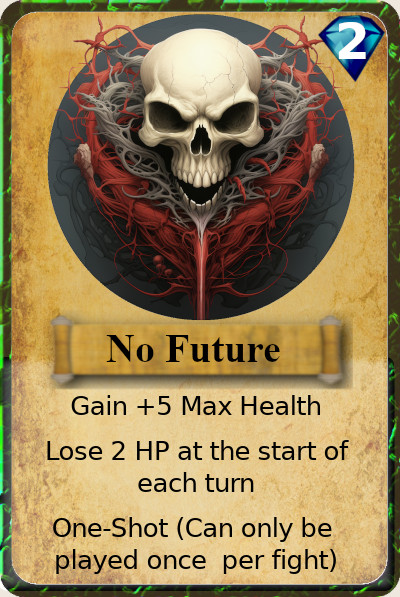
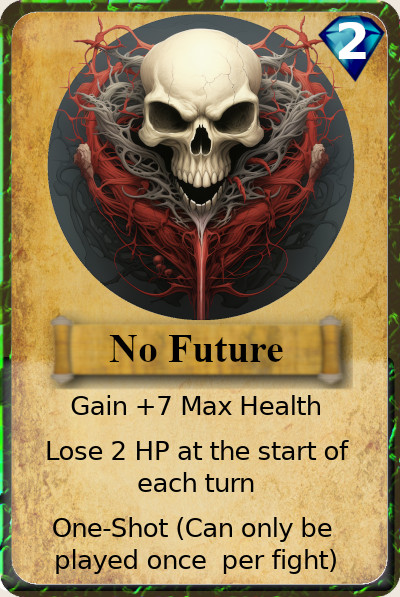
fixed a bug that could make levels frees when the intro is skipped.

Changed region(s): [[0.42, 0.5427, 0.72, 0.603], [0.27, 0.5427, 0.39, 0.603], [0.39, 0.6633, 0.45, 0.6935]]

diff --git a/preload.js b/preload.js
@@ -271,7 +271,7 @@ class Preload extends Phaser.Scene {
             {key: 'powerChord',         type: 'buff',           cost: 1, stancePoints: () => gameState.player.stancePoints <= 0 ? 1 : 0, damage: 0, fire: 0, poison: 0, heal: 0, poisonRemove: 0, strength: 0, armor: 0, reduceTargetArmor: 0, reduceTargetStrength: 0, drawCard: () => (gameState.player.stancePoints > 0) ? 3 : 0},
             {key: 'crowdSurfer',        type: 'buff',           cost: 1, stancePoints: 0, damage: 0, fire: 0, poison: 0, heal: () => (gameState.player.stancePoints < 0) ? 2 * gameState.player.stancePoints : 0, poisonRemove: 0, strength: 0, armor: 0, reduceTargetArmor: 0, reduceTargetStrength: 0, drawCard: () => (gameState.player.stancePoints > 0) ? gameState.player.stancePoints : 0},
             {key: 'rocknRejuvinate',    type: 'buff',           cost: 3, stancePoints: 0, damage: 0, fire: 0, poison: 0, heal: 10, poisonRemove: () => gameState.player.stancePoints > 0 ? 3 : 0, strength: 0, armor: () => gameState.player.stancePoints < 0 ? 3 : 0, reduceTargetArmor: 0, reduceTargetStrength: 0, drawCard: 0},
-            {key: 'detox',              type: 'buff',           cost: 2, stancePoints: 0, damage: 0, fire: 0, poison: 0, heal: 0, poisonRemove: 4, strength: 0, armor: 0, reduceTargetArmor: 0, reduceTargetStrength: 0, drawCard: 0},
+            {key: 'detox',              type: 'buff',           cost: 2, stancePoints: 0, damage: 0, fire: 0, poison: 0, heal: 0, poisonRemove: 4, strength: 0, armor: 4, reduceTargetArmor: 0, reduceTargetStrength: 0, drawCard: 0},
             {key: 'dBeat',              type: 'buff',           cost: 2, stancePoints: 0, damage: 0, fire: 0, poison: 0, heal: 0, poisonRemove: 0, strength: 0, armor: 0, reduceTargetArmor: 0, reduceTargetStrength: 0, drawCard: 0},
             {key: 'shogunShred',        type: 'buff',           cost: 0, stancePoints: -1, damage: 0, fire: 0, poison: 0, heal: 0, poisonRemove: 0, strength: 0, armor: 0, reduceTargetArmor: 0, reduceTargetStrength: 0, drawCard: () => (gameState.player.stancePoints > 0) ? 1 : 0},
             {key: 'bloodOath',          type: 'buff',           cost: 2, stancePoints: 0, damage: 0, fire: 0, poison: 0, heal: 0, poisonRemove: 0, strength: 0, armor: 0, reduceTargetArmor: 0, reduceTargetStrength: 0, drawCard: 0, oneShot: true},

diff --git a/level1fight1.js b/level1fight1.js
@@ -20,6 +20,7 @@ class Level1Fight1 extends BaseScene {self
 
     create() {
         const self = this;
+        this.saveGameState(self.scene.key);    
         this.baseCreate('bakgrunnCity1');
         this.resetPlayer(gameState.player, 0.45, 370, 350); //l1f1:0.28 -- l1f2: 0.24, 360, 300 (liten:0.48, 360, 280)
         this.addEndOfTurnButton();
@@ -97,7 +98,7 @@ class Level1Fight1 extends BaseScene {self
             }
         })
 
-        // self.scene.start('Level3Fight3');
+        // self.scene.start('Level1Fight2');
 
         function startFight() {
             gameState.turn = 0;
@@ -141,12 +142,14 @@ class Level1Fight1 extends BaseScene {self
             gameState.skipTaunts = async () => {
                 if (!gameState.skipIntro) {
                     gameState.skipIntro = true;
-                    self.input.keyboard.off('keydown', skipIntro, this);
-                    self.time.removeAllEvents();
                     gameState.startFightObjects.forEach(object => fadeOutGameObject(object, 200));
 
                     await self.delay(300);
-                    if (!gameState.fightStarted) startPlayerTurn();
+                    if (!gameState.fightStarted) {
+                        self.input.keyboard.off('keydown', skipIntro, this);
+                        self.time.removeAllEvents();
+                        startPlayerTurn();
+                    }
                 }
             };
 
@@ -198,7 +201,6 @@ class Level1Fight1 extends BaseScene {self
             
             if (!gameState.skipIntro) {
                 await self.delay(fadeOutTime);
-                // gameState.skipIntro = false;
                 self.input.keyboard.off('keydown', skipIntro, this);
                 self.time.removeAllEvents();
 
@@ -664,8 +666,7 @@ class Level1Fight1 extends BaseScene {self
             }
             if (card.key === 'noFuture') {
                 gameState.noFutureCondition = true;
-                gameState.player.healthMax += 5;
-                gameState.player.health += 5;
+                gameState.player.healthMax += 7;
                 gameConfig.powerUpSound.play({ volume: 0.15 });
                 self.powerUpTweens(gameState.player);
                 self.updateHealthBar(target);

diff --git a/level1fight3.js b/level1fight3.js
@@ -121,12 +121,14 @@ class Level1Fight3 extends BaseScene {self
             gameState.skipTaunts = async () => {
                 if (!gameState.skipIntro) {
                     gameState.skipIntro = true;
-                    self.input.keyboard.off('keydown', skipIntro, this);
-                    self.time.removeAllEvents();
                     gameState.startFightObjects.forEach(object => fadeOutGameObject(object, 200));
 
                     await self.delay(300);
-                    if (!gameState.fightStarted) startPlayerTurn();
+                    if (!gameState.fightStarted) {
+                        self.input.keyboard.off('keydown', skipIntro, this);
+                        self.time.removeAllEvents();
+                        startPlayerTurn();
+                    }
                 }
             };
 
@@ -672,8 +674,7 @@ class Level1Fight3 extends BaseScene {self
             }
             if (card.key === 'noFuture') {
                 gameState.noFutureCondition = true;
-                gameState.player.healthMax += 5;
-                gameState.player.health += 5;
+                gameState.player.healthMax += 7;
                 gameConfig.powerUpSound.play({ volume: 0.15 });
                 self.powerUpTweens(gameState.player);
                 self.updateHealthBar(target);

diff --git a/level2fight1.js b/level2fight1.js
@@ -162,12 +162,14 @@ class Level2Fight1 extends BaseScene {self
             gameState.skipTaunts = async () => {
                 if (!gameState.skipIntro) {
                     gameState.skipIntro = true;
-                    self.input.keyboard.off('keydown', skipIntro, this);
-                    self.time.removeAllEvents();
                     gameState.startFightObjects.forEach(object => fadeOutGameObject(object, 200));
 
                     await self.delay(300);
-                    if (!gameState.fightStarted) startPlayerTurn();
+                    if (!gameState.fightStarted) {
+                        self.input.keyboard.off('keydown', skipIntro, this);
+                        self.time.removeAllEvents();
+                        startPlayerTurn();
+                    }
                 }
             };
 
@@ -727,8 +729,7 @@ class Level2Fight1 extends BaseScene {self
             }
             if (card.key === 'noFuture') {
                 gameState.noFutureCondition = true;
-                gameState.player.healthMax += 5;
-                gameState.player.health += 5;
+                gameState.player.healthMax += 7;
                 gameConfig.powerUpSound.play({ volume: 0.15 });
                 self.powerUpTweens(gameState.player);
                 self.updateHealthBar(target);

diff --git a/level2fight2.js b/level2fight2.js
@@ -130,12 +130,14 @@ class Level2Fight2 extends BaseScene {self
             gameState.skipTaunts = async () => {
                 if (!gameState.skipIntro) {
                     gameState.skipIntro = true;
-                    self.input.keyboard.off('keydown', skipIntro, this);
-                    self.time.removeAllEvents();
                     gameState.startFightObjects.forEach(object => fadeOutGameObject(object, 200));
 
                     await self.delay(300);
-                    if (!gameState.fightStarted) startPlayerTurn();
+                    if (!gameState.fightStarted) {
+                        self.input.keyboard.off('keydown', skipIntro, this);
+                        self.time.removeAllEvents();
+                        startPlayerTurn();
+                    }
                 }
             };
 
@@ -696,8 +698,7 @@ class Level2Fight2 extends BaseScene {self
             }
             if (card.key === 'noFuture') {
                 gameState.noFutureCondition = true;
-                gameState.player.healthMax += 5;
-                gameState.player.health += 5;
+                gameState.player.healthMax += 7;
                 gameConfig.powerUpSound.play({ volume: 0.15 });
                 self.powerUpTweens(gameState.player);
                 self.updateHealthBar(target);

diff --git a/level2fight3.js b/level2fight3.js
@@ -116,12 +116,14 @@ class Level2Fight3 extends BaseScene {self
             gameState.skipTaunts = async () => {
                 if (!gameState.skipIntro) {
                     gameState.skipIntro = true;
-                    self.input.keyboard.off('keydown', skipIntro, this);
-                    self.time.removeAllEvents();
                     gameState.startFightObjects.forEach(object => fadeOutGameObject(object, 200));
 
                     await self.delay(300);
-                    if (!gameState.fightStarted) startPlayerTurn();
+                    if (!gameState.fightStarted) {
+                        self.input.keyboard.off('keydown', skipIntro, this);
+                        self.time.removeAllEvents();
+                        startPlayerTurn();
+                    }
                 }
             };
 
@@ -652,8 +654,7 @@ class Level2Fight3 extends BaseScene {self
             }
             if (card.key === 'noFuture') {
                 gameState.noFutureCondition = true;
-                gameState.player.healthMax += 5;
-                gameState.player.health += 5;
+                gameState.player.healthMax += 7;
                 gameConfig.powerUpSound.play({ volume: 0.15 });
                 self.powerUpTweens(gameState.player);
                 self.updateHealthBar(target);

diff --git a/level3fight1.js b/level3fight1.js
@@ -163,12 +163,14 @@ class Level3Fight1 extends BaseScene {self
             gameState.skipTaunts = async () => {
                 if (!gameState.skipIntro) {
                     gameState.skipIntro = true;
-                    self.input.keyboard.off('keydown', skipIntro, this);
-                    self.time.removeAllEvents();
                     gameState.startFightObjects.forEach(object => fadeOutGameObject(object, 200));
 
                     await self.delay(300);
-                    if (!gameState.fightStarted) startPlayerTurn();
+                    if (!gameState.fightStarted) {
+                        self.input.keyboard.off('keydown', skipIntro, this);
+                        self.time.removeAllEvents();
+                        startPlayerTurn();
+                    }
                 }
             };
 
@@ -718,8 +720,7 @@ class Level3Fight1 extends BaseScene {self
             }
             if (card.key === 'noFuture') {
                 gameState.noFutureCondition = true;
-                gameState.player.healthMax += 5;
-                gameState.player.health += 5;
+                gameState.player.healthMax += 7;
                 gameConfig.powerUpSound.play({ volume: 0.15 });
                 self.powerUpTweens(gameState.player);
                 self.updateHealthBar(target);

diff --git a/level3fight2.js b/level3fight2.js
@@ -117,12 +117,14 @@ class Level3Fight2 extends BaseScene {self
             gameState.skipTaunts = async () => {
                 if (!gameState.skipIntro) {
                     gameState.skipIntro = true;
-                    self.input.keyboard.off('keydown', skipIntro, this);
-                    self.time.removeAllEvents();
                     gameState.startFightObjects.forEach(object => fadeOutGameObject(object, 200));
 
                     await self.delay(300);
-                    if (!gameState.fightStarted) startPlayerTurn();
+                    if (!gameState.fightStarted) {
+                        self.input.keyboard.off('keydown', skipIntro, this);
+                        self.time.removeAllEvents();
+                        startPlayerTurn();
+                    }
                 }
             };
 
@@ -647,8 +649,7 @@ class Level3Fight2 extends BaseScene {self
             }
             if (card.key === 'noFuture') {
                 gameState.noFutureCondition = true;
-                gameState.player.healthMax += 5;
-                gameState.player.health += 5;
+                gameState.player.healthMax += 7;
                 gameConfig.powerUpSound.play({ volume: 0.15 });
                 self.powerUpTweens(gameState.player);
                 self.updateHealthBar(target);

diff --git a/level3fight3.js b/level3fight3.js
@@ -117,12 +117,14 @@ class Level3Fight3 extends BaseScene {self
             gameState.skipTaunts = async () => {
                 if (!gameState.skipIntro) {
                     gameState.skipIntro = true;
-                    self.input.keyboard.off('keydown', skipIntro, this);
-                    self.time.removeAllEvents();
                     gameState.startFightObjects.forEach(object => fadeOutGameObject(object, 200));
 
                     await self.delay(300);
-                    if (!gameState.fightStarted) startPlayerTurn();
+                    if (!gameState.fightStarted) {
+                        self.input.keyboard.off('keydown', skipIntro, this);
+                        self.time.removeAllEvents();
+                        startPlayerTurn();
+                    }
                 }
             };
 
@@ -685,8 +687,7 @@ class Level3Fight3 extends BaseScene {self
             }
             if (card.key === 'noFuture') {
                 gameState.noFutureCondition = true;
-                gameState.player.healthMax += 5;
-                gameState.player.health += 5;
+                gameState.player.healthMax += 7;
                 gameConfig.powerUpSound.play({ volume: 0.15 });
                 self.powerUpTweens(gameState.player);
                 self.updateHealthBar(target);

diff --git a/level1fight2.js b/level1fight2.js
@@ -123,12 +123,14 @@ class Level1Fight2 extends BaseScene {self
             gameState.skipTaunts = async () => {
                 if (!gameState.skipIntro) {
                     gameState.skipIntro = true;
-                    self.input.keyboard.off('keydown', skipIntro, this);
-                    self.time.removeAllEvents();
                     gameState.startFightObjects.forEach(object => fadeOutGameObject(object, 200));
 
                     await self.delay(300);
-                    if (!gameState.fightStarted) startPlayerTurn();
+                    if (!gameState.fightStarted) {
+                        self.input.keyboard.off('keydown', skipIntro, this);
+                        self.time.removeAllEvents();
+                        startPlayerTurn();
+                    }
                 }
             };
 
